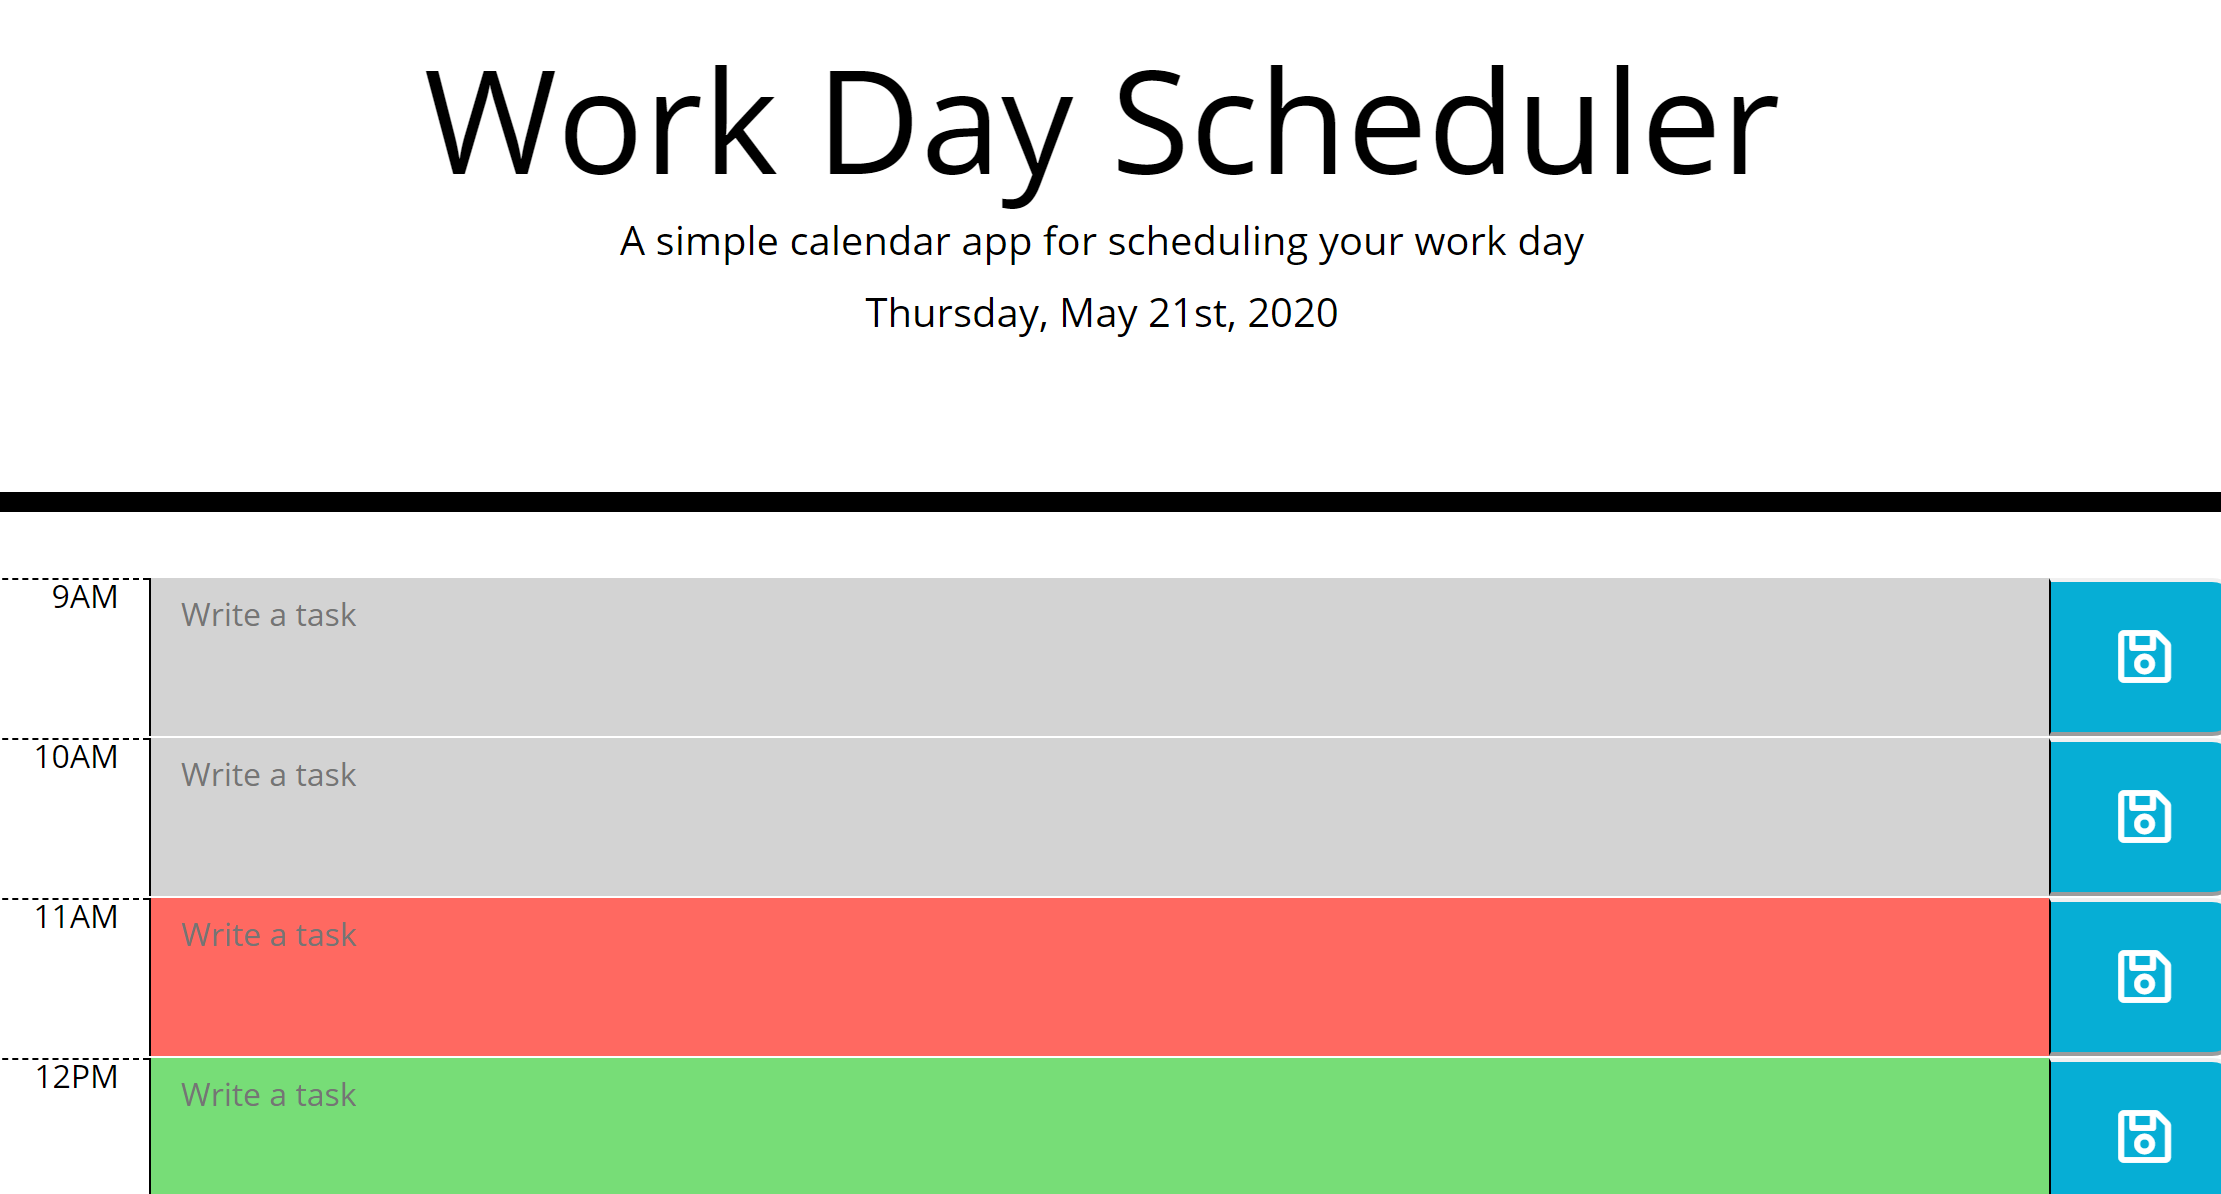
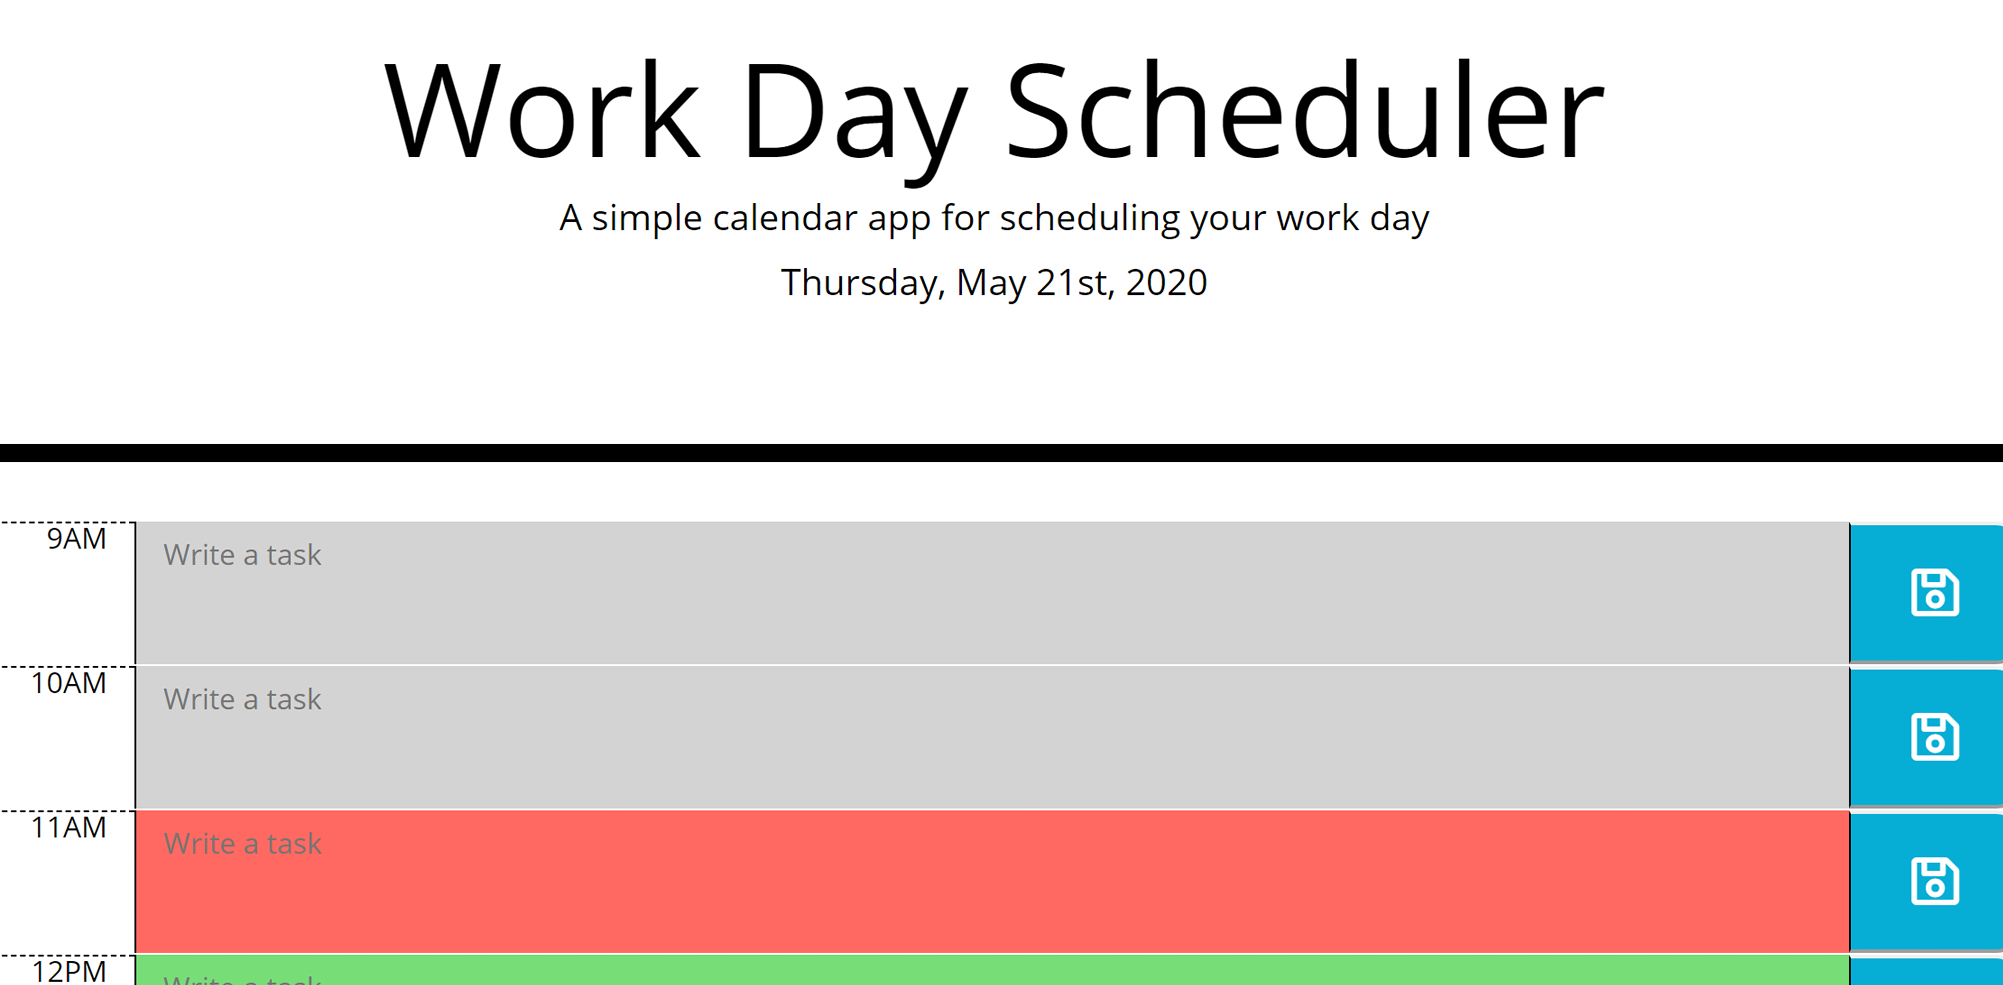
Made screenshots for portfolio a uniform size and file type

diff --git a/portfolio.html b/portfolio.html
@@ -61,7 +61,7 @@
         </div>
         <div class="col mb-4">
           <div class="card">
-            <img src="weather_event_planner.jpg" class="card-img-top" alt="Screenshot of app">
+            <img src="weather_event_planner.png" class="card-img-top" alt="Screenshot of app">
             <div class="card-body">
               <h5 class="card-title">Weather Event Planner</h5>
               <p class="card-text">Group project to create an app that finds the weather in the searched area, and finds local activities and events suitable for those coditions. Still in development.</p>
